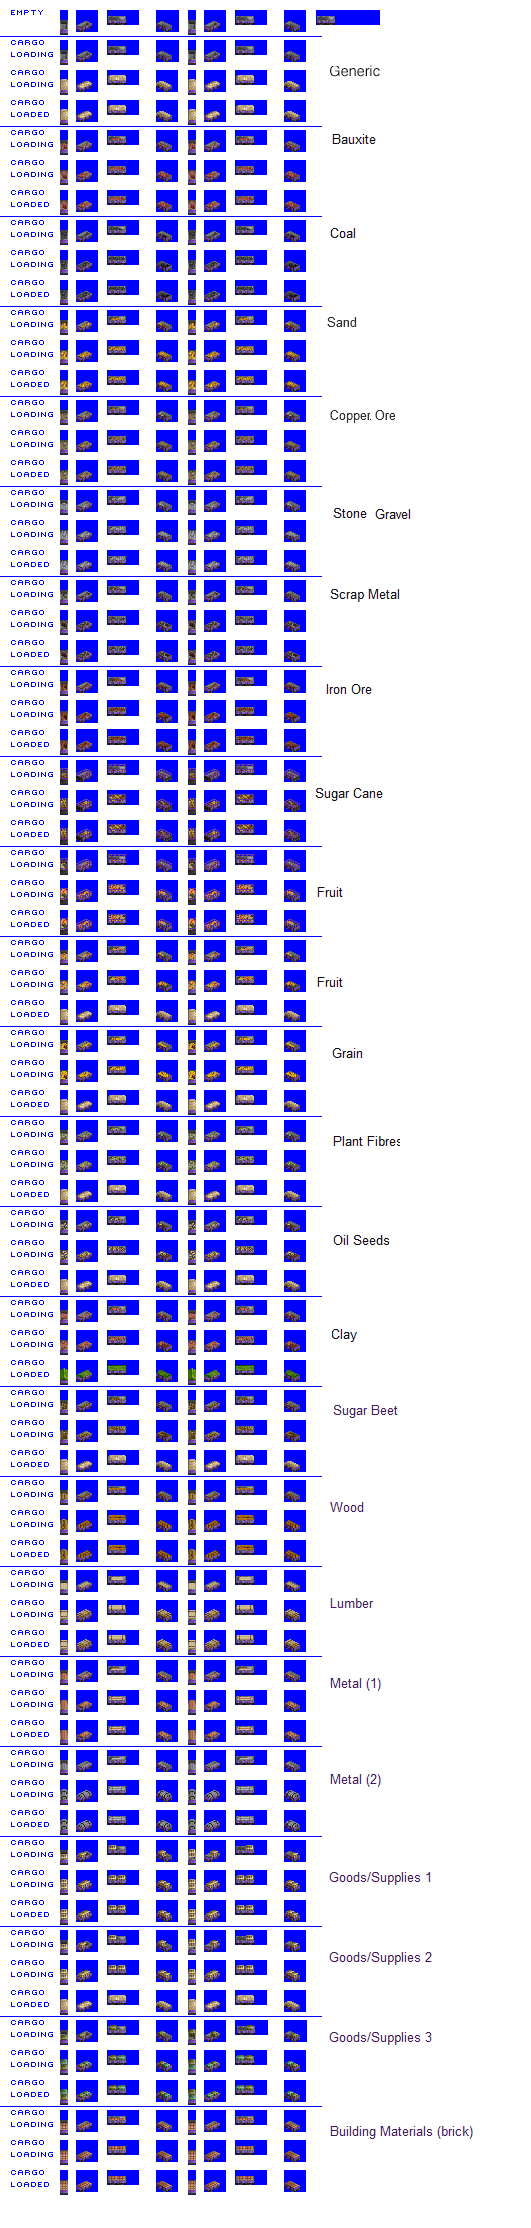
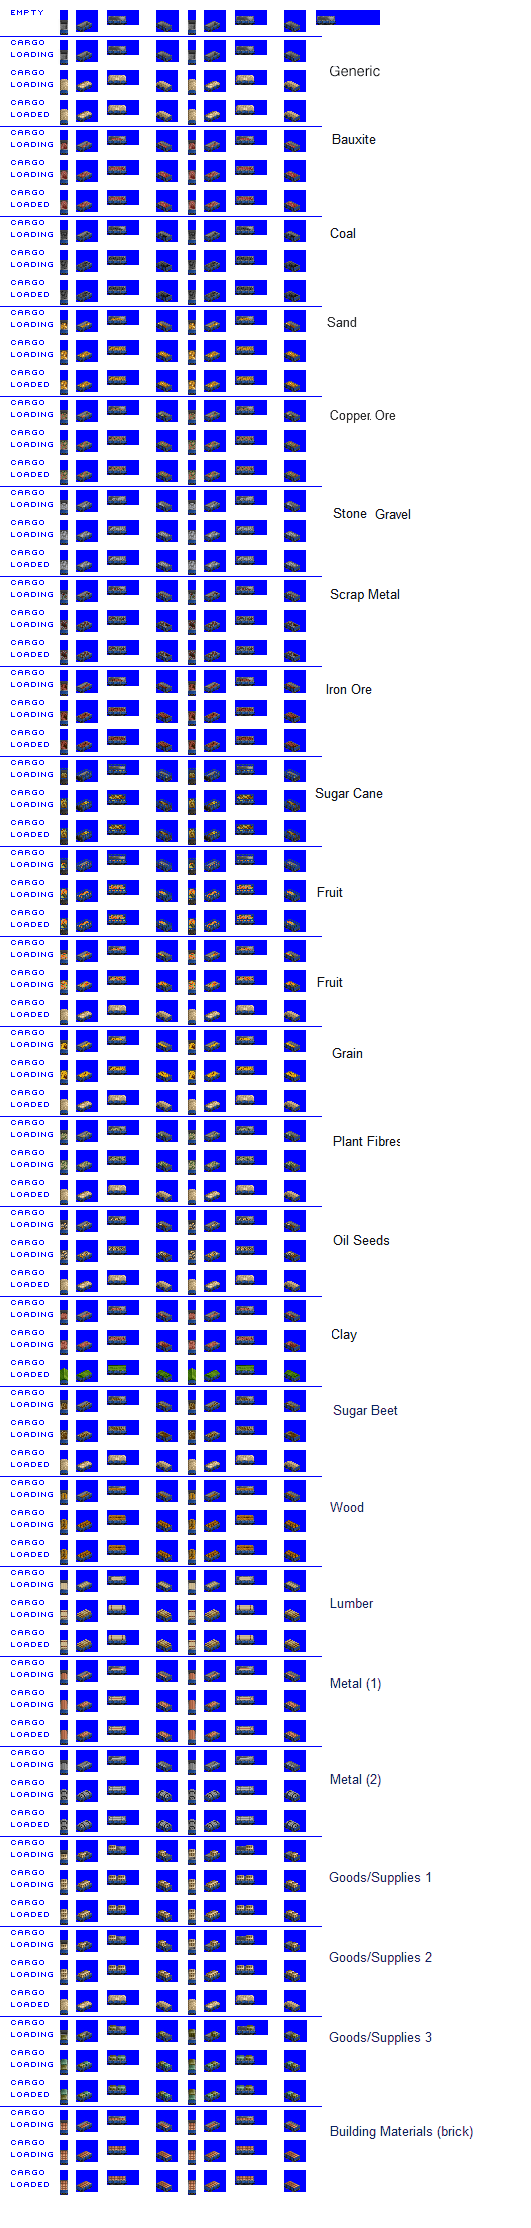
Feature: random colours for open cars

diff --git a/src/vehicles/open_cars.py b/src/vehicles/open_cars.py
@@ -6,13 +6,9 @@ cargo_graphics_mappings = {'AORE': [1], 'COAL': [2], 'SAND': [3], 'CORE': [4], '
                            'GRAI': [10], 'WHEA': [10], 'MAIZ': [10], 'FICR': [11],
                            'SGCN': [11], 'OLSD': [12], 'CLAY': [13]}
 
-options = {'template': 'open_car_brit_gen_1_template.png',
-           'recolour_map': {170: 186, 171: 187, 172: 188, 173: 189}}
-graphics_processor_1 = GraphicsProcessorFactory('simple_recolour_pipeline', options)
-
-options = {'template': 'open_car_brit_gen_1_template.png',
-           'recolour_map': {170: 206, 171: 207, 172: 208, 173: 209}}
-graphics_processor_2 = GraphicsProcessorFactory('simple_recolour_pipeline', options)
+options = {'template': 'open_car_brit_gen_1_template.png'}
+graphics_processor_1 = GraphicsProcessorFactory('pass_through_pipeline', options)
+graphics_processor_2 = GraphicsProcessorFactory('swap_company_colours_pipeline', options)
 
 type_config = TypeConfig(base_id = 'open_car',
                 template = 'car_with_visible_cargo.pynml',
@@ -53,6 +49,10 @@ consist.add_model_variant(intro_date=0,
                        graphics_processor=graphics_processor_2)
 
 
+options = {'template': 'open_car_brit_gen_2_template.png'}
+graphics_processor_1 = GraphicsProcessorFactory('pass_through_pipeline', options)
+graphics_processor_2 = GraphicsProcessorFactory('swap_company_colours_pipeline', options)
+
 consist = WagonConsist(type_config = type_config,
                     title = 'Open [Car]',
                     vehicle_set = 'brit',
@@ -72,8 +72,18 @@ consist.add_unit(Wagon(type_config = type_config,
 
 consist.add_model_variant(intro_date=0,
                        end_date=global_constants.max_game_date,
-                       spritesheet_suffix=0)
+                       spritesheet_suffix=0,
+                       graphics_processor=graphics_processor_1)
 
+consist.add_model_variant(intro_date=0,
+                       end_date=global_constants.max_game_date,
+                       spritesheet_suffix=1,
+                       graphics_processor=graphics_processor_2)
+
+
+options = {'template': 'open_car_ng_brit_gen_1_template.png'}
+graphics_processor_1 = GraphicsProcessorFactory('pass_through_pipeline', options)
+graphics_processor_2 = GraphicsProcessorFactory('swap_company_colours_pipeline', options)
 
 type_config = TypeConfig(base_id = 'open_car_ng',
                 template = 'car_with_visible_cargo.pynml',
@@ -106,4 +116,10 @@ consist.add_unit(Wagon(type_config = type_config,
 
 consist.add_model_variant(intro_date=0,
                        end_date=global_constants.max_game_date,
-                       spritesheet_suffix=0)
+                       spritesheet_suffix=0,
+                       graphics_processor=graphics_processor_1)
+
+consist.add_model_variant(intro_date=0,
+                       end_date=global_constants.max_game_date,
+                       spritesheet_suffix=1,
+                       graphics_processor=graphics_processor_2)
